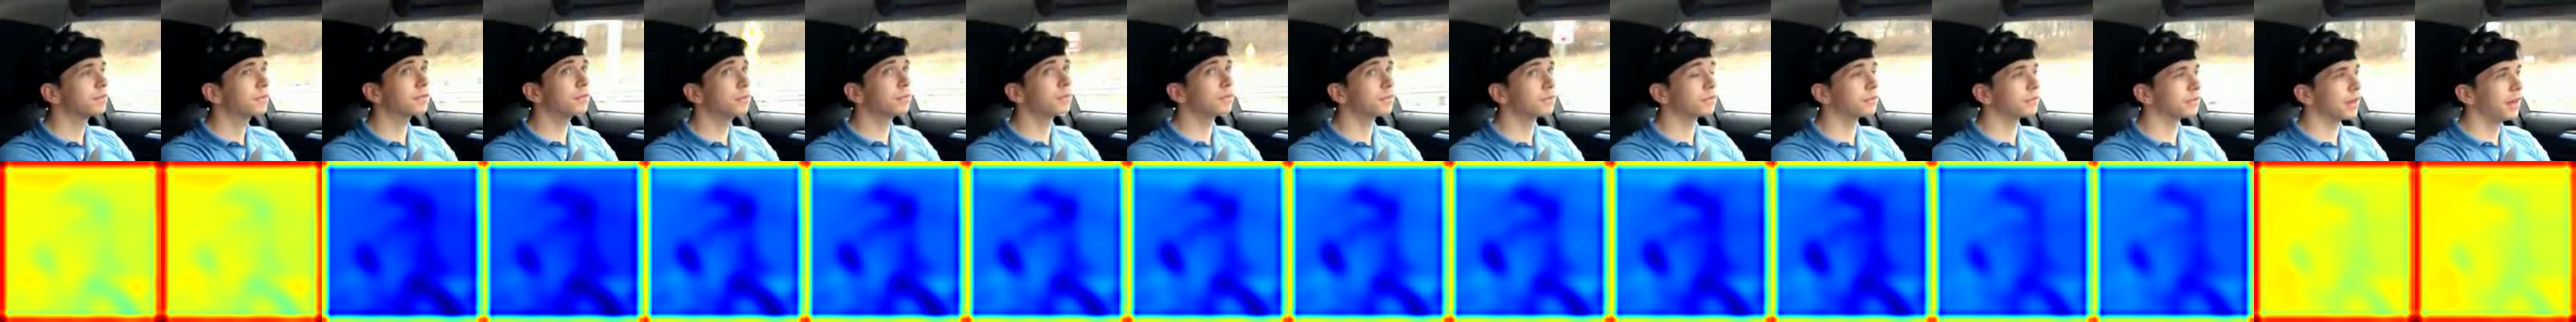
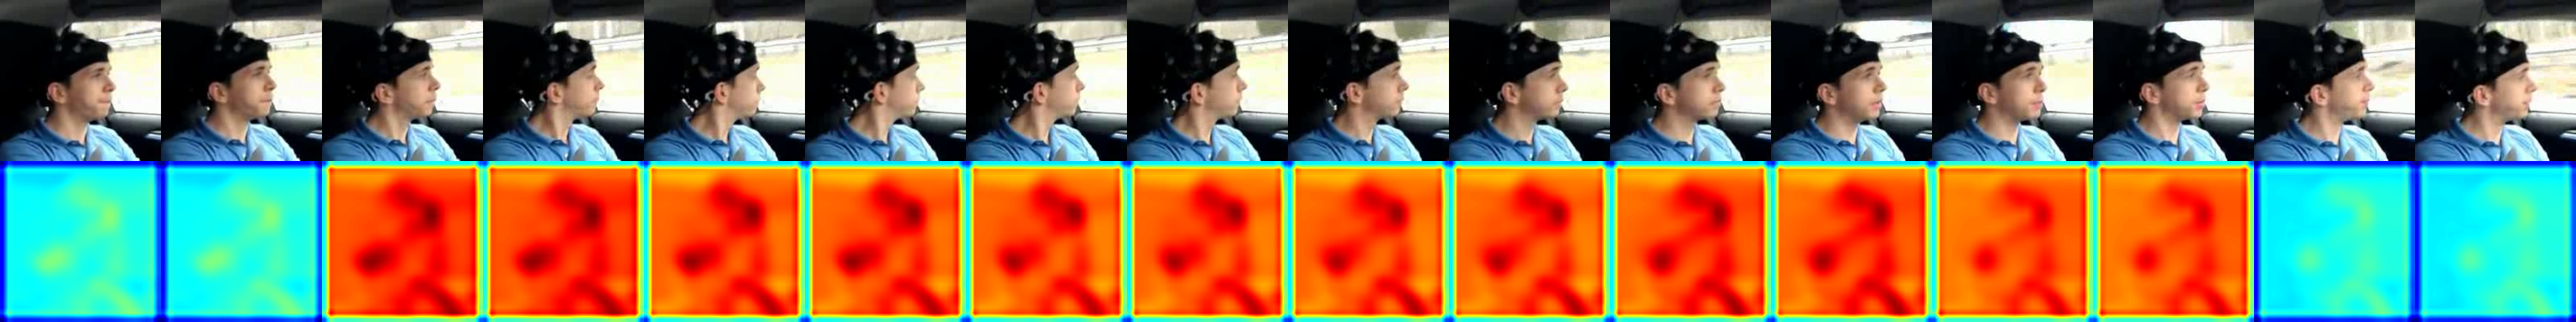
ff

diff --git a/predict2.py b/predict2.py
@@ -74,6 +74,7 @@ def train(args, data_loader, model, criterion, optimizer, epoch):
 
     end = time.time()
     for i, (x1, x2, y) in enumerate(data_loader):
+        print(y)
 
         # measure data loading time
         data_time.update(time.time() - end)
@@ -202,6 +203,7 @@ if __name__ == '__main__':
     parser.add_argument('--arch', type=int, default=1)
     parser.add_argument('--comb', type=int, default=1)
     parser.add_argument('--fc_dim', type=int, default=4096)
+    parser.add_argument('--lr', type=float, default=0.001)
 
     args = parser.parse_args()
     print_options(parser, args)
@@ -211,9 +213,11 @@ if __name__ == '__main__':
         VideoFolder2(args.dataroot, args.datafile, transform=transforms.Compose([
             transforms.ToPILImage(),
             transforms.Resize([args.fineSize, args.fineSize], Image.BICUBIC),
-            transforms.ToTensor()]), clip_step=args.video_clip_step, clip_length=args.video_clip_length),
+            transforms.ToTensor(),
+        transforms.Normalize((0.4914, 0.4822, 0.4465), (0.2023, 0.1994, 0.2010))
+        ]), clip_step=args.video_clip_step, clip_length=args.video_clip_length),
         batch_size=args.batch_size, num_workers=args.num_workers,
-        shuffle=True, pin_memory=True, drop_last=True)
+        shuffle=False, pin_memory=True, drop_last=True)
 
     # val_loader = torch.utils.data.DataLoader(
     #     VideoFolder2(args.dataroot, args.datafile_val, transform=transforms.Compose([
@@ -224,7 +228,7 @@ if __name__ == '__main__':
     #     shuffle=False, pin_memory=True, drop_last=False)
 
     net = C3D2(num_classes=args.num_classes, arch=args.arch, comb=args.comb, fc_dim=args.fc_dim).cuda()
-    optimizer = optim.Adam(net.parameters(), lr=0.001, betas=(0.9, 0.999))
+    optimizer = optim.Adam(net.parameters(), lr=args.lr, betas=(0.9, 0.999))
     criterion = nn.CrossEntropyLoss()
 
     for epoch in range(0, args.num_epochs):

diff --git a/gradcam_lkp_net_video.py b/gradcam_lkp_net_video.py
@@ -144,8 +144,11 @@ class GradCAM(PropBase):
             gcam = gcam[:,None,:,:]
             self.grads.detach()
         if type == 'raw':
-            gcam = torch.sum(self.activiation, dim=1)
-            self.grads.detach()
+            gcam = torch.abs(torch.sum(self.activiation, dim=1))
+            shape = gcam.shape
+            mask = torch.ones(shape[0], shape[1], shape[2]-2, shape[3]-2)
+            mask = torch.nn.functional.pad(mask, (1, 1, 1, 1), mode='constant', value=0)
+            self.grads.detach() * mask
         if type == 'pw_cw':
             gcam_tmp = self.grads.cuda() * self.activiation
             self.grads = F.relu(self.grads)

diff --git a/demo_generate_grad_cam_video.py b/demo_generate_grad_cam_video.py
@@ -38,7 +38,6 @@ def view_cam(images, gcam):
 
     repeat = np.full(gcam.shape[1], (video_clip_length / gcam.shape[1]), dtype=np.int64)
     print(gcam.shape)
-    print(repeat)
     gcam_repeat = np.repeat(gcam, repeat, axis=1)
     cams = np.zeros((224 * 2, 224 * gcam_repeat.shape[1], 3), np.uint8)
     for ind, image in enumerate(images):
@@ -61,8 +60,8 @@ def view_cam(images, gcam):
 
 def save_cam(filename, images, gcam):
     # zero out boarders
-    print(gcam.shape)
-    print(gcam[0,2,...])
+    # print(gcam.shape)
+    # print(gcam[0,2,...])
 
     gcam = gcam - np.min(gcam)
     gcam = gcam / np.max(gcam)
